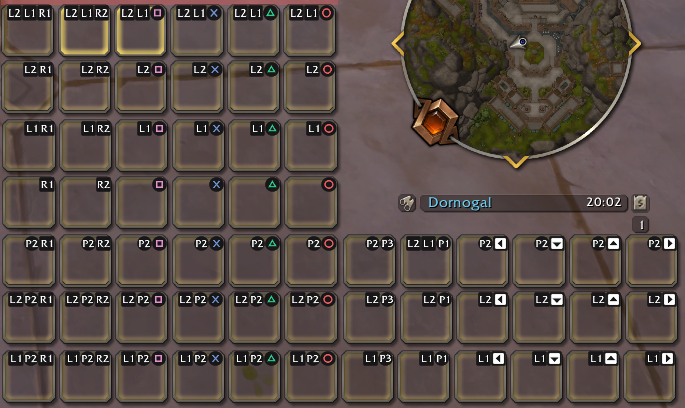
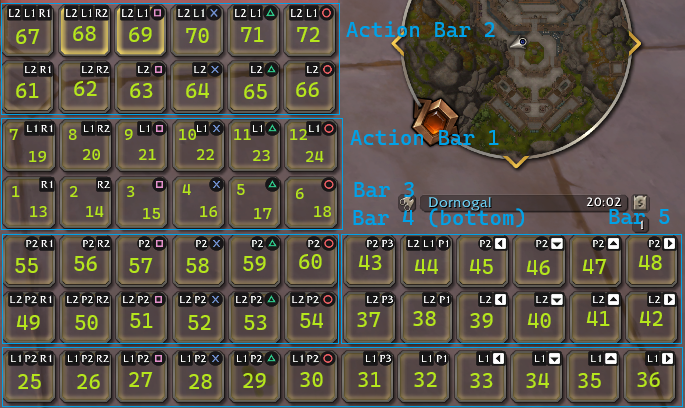
Some more features

diff --git a/docs/bars.md b/docs/bars.md
@@ -2,6 +2,8 @@
 
 ([back](../README.md))
 
+## Annotated
+
 ![Combined](im/bars_combined.png)
 
 ---
